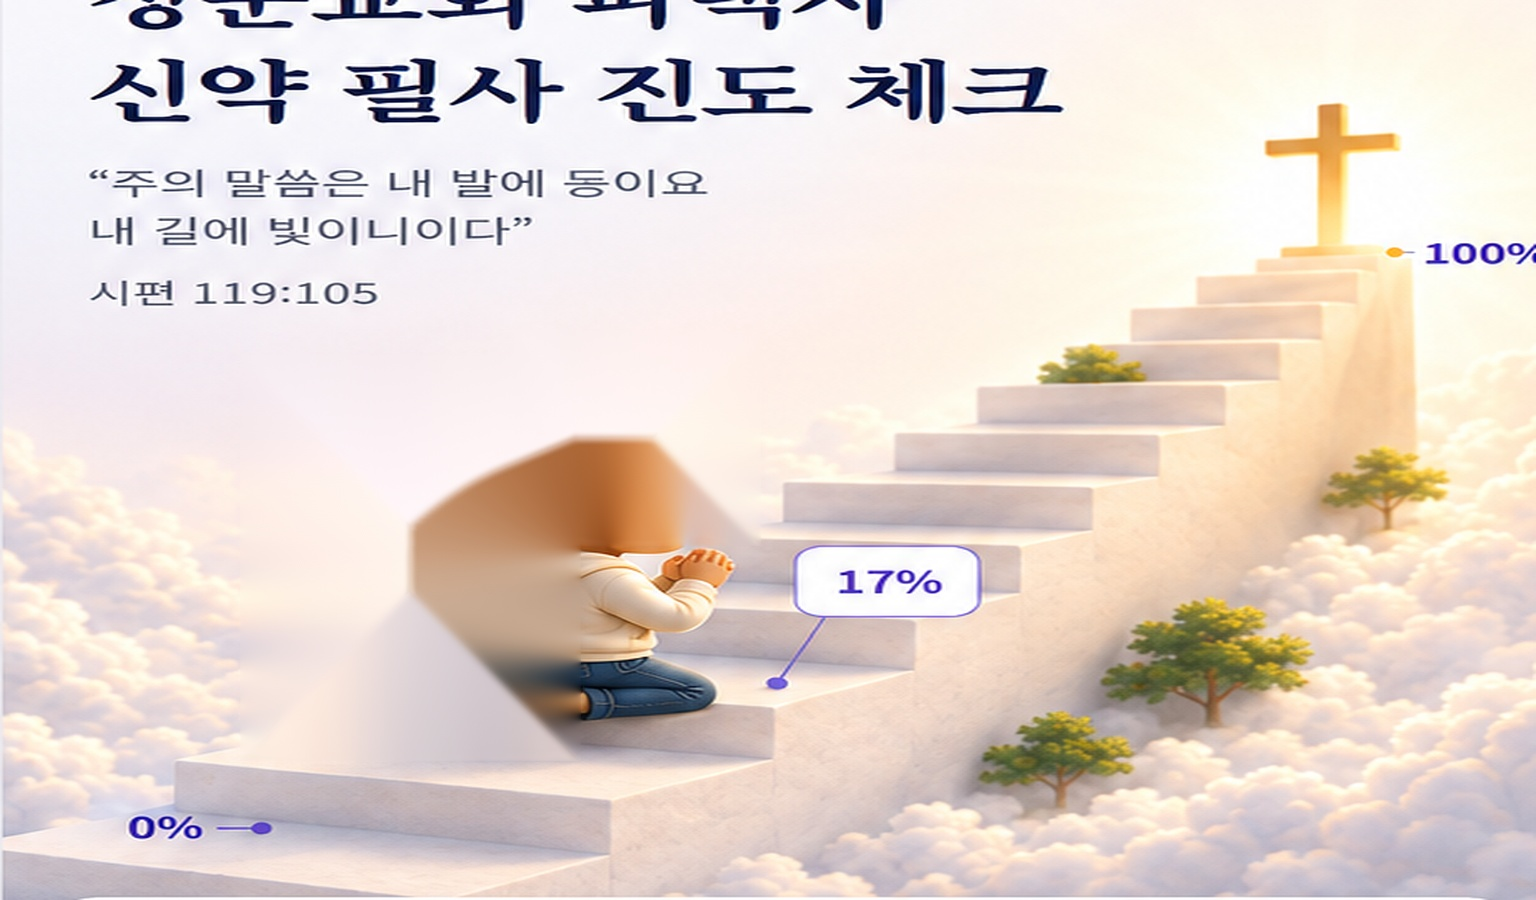
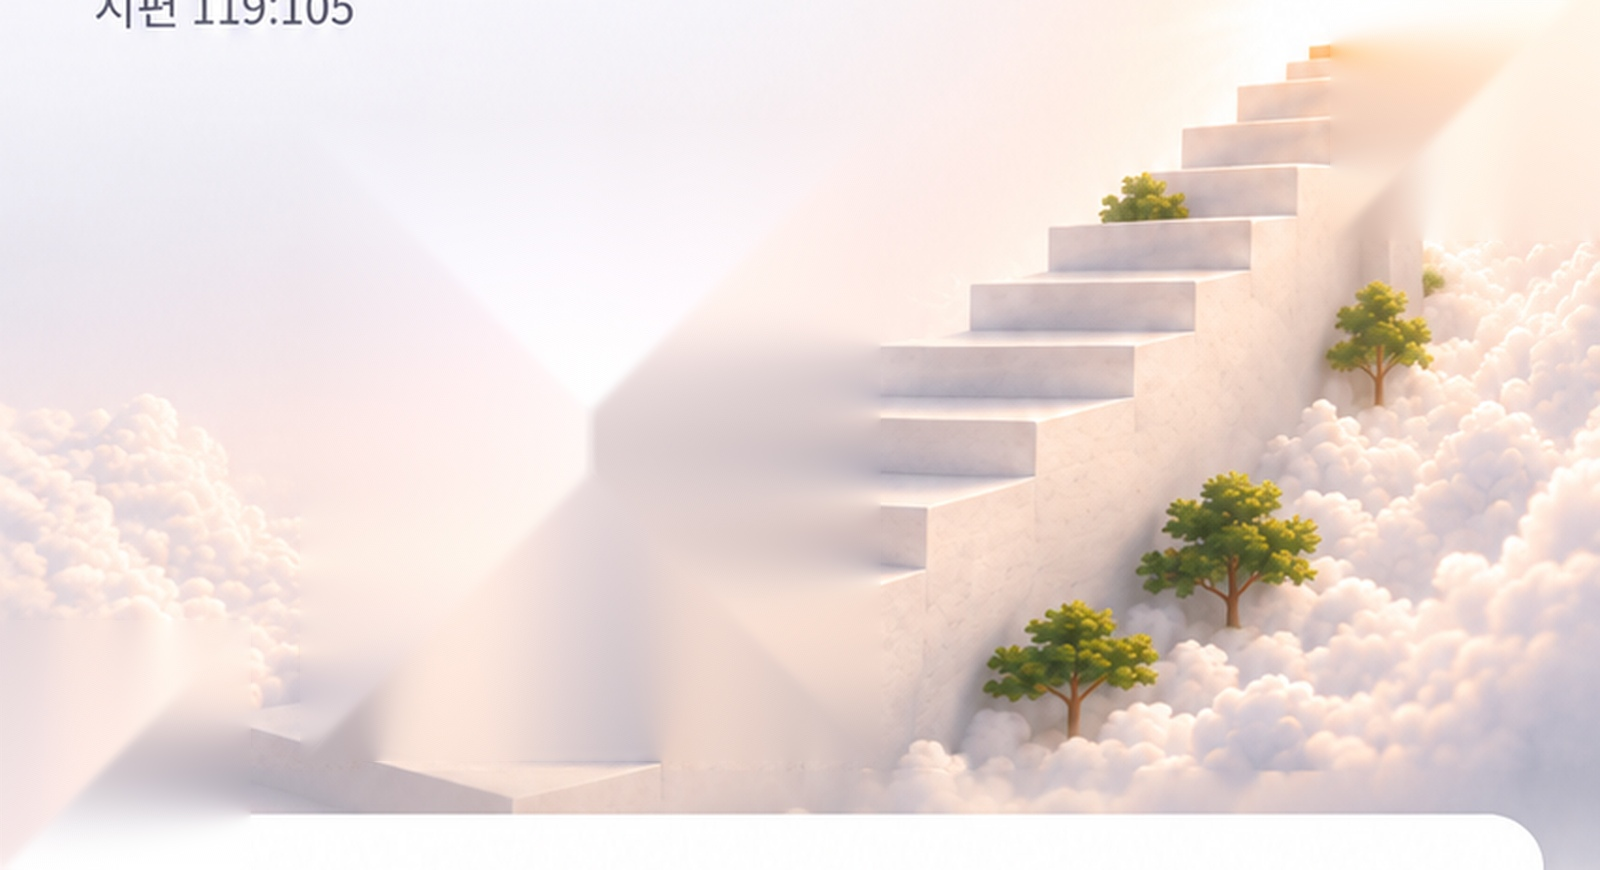
Fix V2.7

diff --git a/index.html b/index.html
@@ -11,7 +11,7 @@
   <link rel="preconnect" href="https://fonts.googleapis.com">
   <link rel="preconnect" href="https://fonts.gstatic.com" crossorigin>
   <link href="https://fonts.googleapis.com/css2?family=Noto+Sans+KR:wght@400;500;600;700;800&family=Noto+Serif+KR:wght@600;700;800&display=swap" rel="stylesheet">
-  <link rel="stylesheet" href="/styles.css?v=20260814-8">
+  <link rel="stylesheet" href="/styles.css?v=20260814-9">
   <title>청운교회 피택자 신약 필사 진도 체크</title>
 </head>
 <body>
@@ -33,11 +33,11 @@
       </div>
 
       <div class="journey layered-journey" aria-label="필사 진도 계단">
-        <img class="journey-bg" src="/journey-background.jpg?v=20260814-8" alt="" aria-hidden="true">
+        <img class="journey-bg" src="/journey-background.jpg?v=20260814-9" alt="" aria-hidden="true">
         <div class="marker marker-zero">0%</div>
         <div class="marker marker-hundred">100%</div>
         <div id="movingProgress" class="moving-progress">
-          <img id="prayerChild" class="moving-child" src="/praying-child.png?v=20260814-8" alt="무릎 꿇고 기도하는 아이">
+          <img id="prayerChild" class="moving-child" src="/praying-child.png?v=20260814-9" alt="무릎 꿇고 기도하는 아이">
           <div id="journeyBubble" class="journey-bubble">0%</div>
         </div>
       </div>
@@ -136,7 +136,7 @@
       <button data-target="reminderPanel">⚙<span>설정</span></button>
     </nav>
   </main>
-  <script src="/scripture.js?v=20260814-8"></script>
-  <script src="/app.js?v=20260814-8"></script>
+  <script src="/scripture.js?v=20260814-9"></script>
+  <script src="/app.js?v=20260814-9"></script>
 </body>
 </html>

diff --git a/styles.css b/styles.css
@@ -213,3 +213,30 @@ footer{text-align:center;color:#948f9d;font-size:11px;margin:25px 0 10px}
   .moving-child{width:80px}
   .moving-progress .journey-bubble{left:69px;top:9px}
 }
+
+/* V2.7 mobile clean final */
+.layered-journey{height:410px;background:#fbf9ff}
+.layered-journey .journey-bg{object-fit:cover;object-position:center center}
+.moving-progress{width:105px;height:135px;transform:translate(-50%,8%)}
+.moving-child{width:100px;height:auto}
+.moving-progress .journey-bubble{left:88px;top:13px}
+.layered-journey .marker-zero{left:7%;bottom:8%}
+.layered-journey .marker-hundred{right:5%;top:12%}
+@media(max-width:650px){
+ .hero{min-height:790px}.hero-copy{padding:30px 24px 0}
+ .hero-copy h1{font-size:35px;line-height:1.28;letter-spacing:-.035em}
+ .hero-copy h1 .title-line1,.hero-copy h1 .title-line2{display:block}
+ .hero-copy .verse{font-size:17px;line-height:1.6;margin-top:24px}
+ .hero-copy .verse-ref{font-size:15px;margin-top:8px}
+ .layered-journey{height:430px}
+}
+@media(max-width:420px){
+ .hero{min-height:735px}.hero-copy{padding:26px 22px 0}
+ .hero-copy h1{font-size:30px;line-height:1.3}
+ .hero-copy h1 .title-line1,.hero-copy h1 .title-line2{display:block}
+ .hero-copy .verse{font-size:15px;margin-top:20px;white-space:nowrap}
+ .hero-copy .verse-ref{font-size:14px}
+ .layered-journey{height:390px}
+ .moving-progress{width:90px;height:118px}.moving-child{width:86px}
+ .moving-progress .journey-bubble{left:72px;top:10px;font-size:14px}
+}

diff --git a/app.js b/app.js
@@ -77,5 +77,5 @@ $("#quickAlarmBtn").onclick=()=>togglePanel("reminderPanel",true);
 $$("[data-scroll]").forEach(b=>b.onclick=()=>{if(b.dataset.scroll==="today")document.querySelector(".today-card").scrollIntoView({behavior:"smooth"});else window.scrollTo({top:0,behavior:"smooth"})});
 
 let deferredPrompt;window.addEventListener("beforeinstallprompt",e=>{e.preventDefault();deferredPrompt=e;$("#installBtn").classList.remove("hidden")});$("#installBtn").onclick=async()=>{if(deferredPrompt){deferredPrompt.prompt();deferredPrompt=null}};
-if("serviceWorker" in navigator) navigator.serviceWorker.register("/sw.js?v=20260814-8");
+if("serviceWorker" in navigator) navigator.serviceWorker.register("/sw.js?v=20260814-9");
 buildStairs();fillBooks();if(saved.updatedAt)$("#progressEditor").classList.add("collapsed");render();

diff --git a/sw.js b/sw.js
@@ -1,16 +1,16 @@
 
-const CACHE="scripture-pwa-v2-6-20260814-8";
+const CACHE="scripture-pwa-v2-7-20260814-9";
 const ASSETS=[
   "/",
   "/index.html",
-  "/styles.css?v=20260814-8",
-  "/app.js?v=20260814-8",
-  "/scripture.js?v=20260814-8",
+  "/styles.css?v=20260814-9",
+  "/app.js?v=20260814-9",
+  "/scripture.js?v=20260814-9",
   "/manifest.webmanifest",
   "/icon.svg",
-  "/journey-background.jpg?v=20260814-8",
-  "/praying-child.png?v=20260814-8",
-  "/journey-art.jpg?v=20260814-8"
+  "/journey-background.jpg?v=20260814-9",
+  "/praying-child.png?v=20260814-9",
+  "/journey-art.jpg?v=20260814-9"
 ];
 
 self.addEventListener("install", event => {
